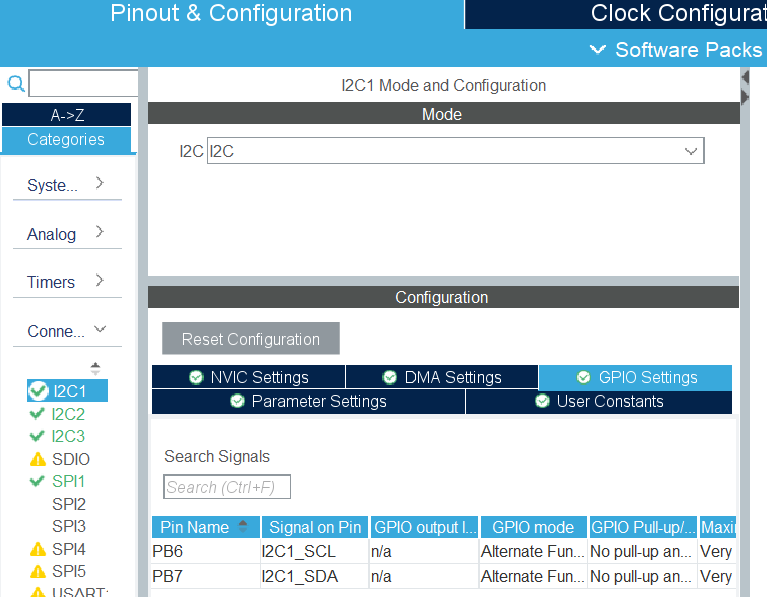
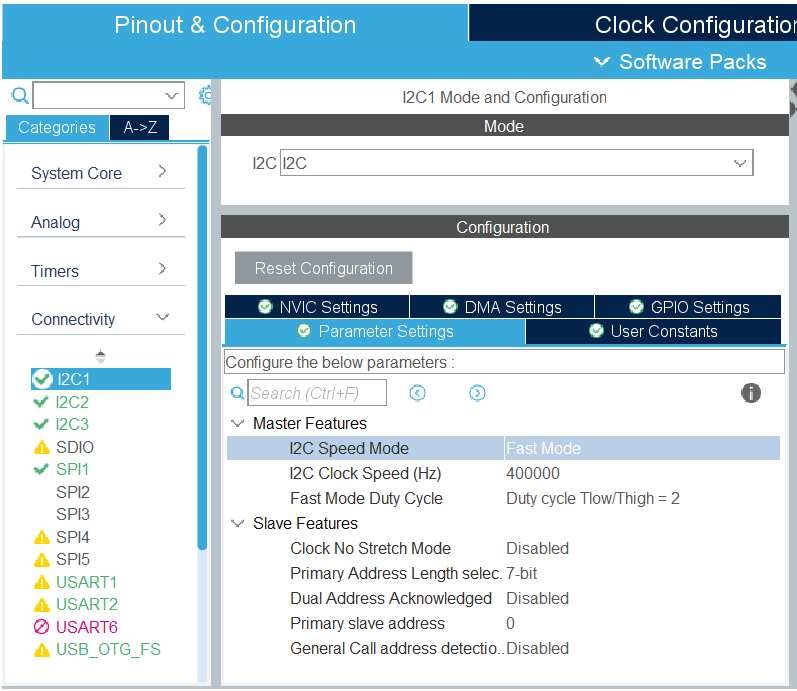
examples/omron_height 端子変更

diff --git a/examples/omron_height/Core/Src/main.c b/examples/omron_height/Core/Src/main.c
@@ -51,6 +51,7 @@ RTC_HandleTypeDef hrtc;
 
 SPI_HandleTypeDef hspi1;
 
+UART_HandleTypeDef huart1;
 UART_HandleTypeDef huart2;
 
 /* USER CODE BEGIN PV */
@@ -66,6 +67,7 @@ static void MX_SPI1_Init(void);
 static void MX_I2C1_Init(void);
 static void MX_I2C2_Init(void);
 static void MX_I2C3_Init(void);
+static void MX_USART1_UART_Init(void);
 /* USER CODE BEGIN PFP */
 void main_cpp(UART_HandleTypeDef *, I2C_HandleTypeDef *, I2C_HandleTypeDef *, I2C_HandleTypeDef *, char *);
 /* USER CODE END PFP */
@@ -116,6 +118,7 @@ int main(void)
   MX_I2C1_Init();
   MX_I2C2_Init();
   MX_I2C3_Init();
+  MX_USART1_UART_Init();
   /* USER CODE BEGIN 2 */
 	uint32_t bytesread;
 	char buffer[256];
@@ -159,7 +162,7 @@ int main(void)
 	    HAL_RTC_GetTime(&hrtc, &sTime, RTC_FORMAT_BIN);
 	    HAL_RTC_GetDate(&hrtc, &sDate, RTC_FORMAT_BIN);
 	    sprintf(fname,"%02d%02d%02d%02d.csv",sDate.Month,sDate.Date,sTime.Hours,sTime.Minutes);
-		main_cpp(&huart2, &hi2c1, &hi2c2, &hi2c3, fname);
+		main_cpp(&huart1, &hi2c1, &hi2c2, &hi2c3, fname);
 	}
   /* USER CODE END 2 */
 
@@ -177,8 +180,8 @@ int main(void)
 	  sprintf(date,"Date: %02d.%02d.%02d\t",sDate.Date,sDate.Month,sDate.Year+2000);
 	  sprintf(time,"Time: %02d.%02d.%02d\r\n",sTime.Hours,sTime.Minutes,sTime.Seconds);
 
-	  HAL_UART_Transmit(&huart2, (uint8_t *)date, strlen(date), 300);
-	  HAL_UART_Transmit(&huart2, (uint8_t *)time, strlen(time), 300);
+	  HAL_UART_Transmit(&huart1, (uint8_t *)date, strlen(date), 300);
+	  HAL_UART_Transmit(&huart1, (uint8_t *)time, strlen(time), 300);
 	  HAL_GPIO_TogglePin(GPIOC, GPIO_PIN_13);
 	  HAL_Delay(1000);
   }
@@ -247,7 +250,7 @@ static void MX_I2C1_Init(void)
 
   /* USER CODE END I2C1_Init 1 */
   hi2c1.Instance = I2C1;
-  hi2c1.Init.ClockSpeed = 100000;
+  hi2c1.Init.ClockSpeed = 400000;
   hi2c1.Init.DutyCycle = I2C_DUTYCYCLE_2;
   hi2c1.Init.OwnAddress1 = 0;
   hi2c1.Init.AddressingMode = I2C_ADDRESSINGMODE_7BIT;
@@ -281,7 +284,7 @@ static void MX_I2C2_Init(void)
 
   /* USER CODE END I2C2_Init 1 */
   hi2c2.Instance = I2C2;
-  hi2c2.Init.ClockSpeed = 100000;
+  hi2c2.Init.ClockSpeed = 400000;
   hi2c2.Init.DutyCycle = I2C_DUTYCYCLE_2;
   hi2c2.Init.OwnAddress1 = 0;
   hi2c2.Init.AddressingMode = I2C_ADDRESSINGMODE_7BIT;
@@ -315,7 +318,7 @@ static void MX_I2C3_Init(void)
 
   /* USER CODE END I2C3_Init 1 */
   hi2c3.Instance = I2C3;
-  hi2c3.Init.ClockSpeed = 100000;
+  hi2c3.Init.ClockSpeed = 400000;
   hi2c3.Init.DutyCycle = I2C_DUTYCYCLE_2;
   hi2c3.Init.OwnAddress1 = 0;
   hi2c3.Init.AddressingMode = I2C_ADDRESSINGMODE_7BIT;
@@ -403,6 +406,39 @@ static void MX_SPI1_Init(void)
   /* USER CODE BEGIN SPI1_Init 2 */
 
   /* USER CODE END SPI1_Init 2 */
+
+}
+
+/**
+  * @brief USART1 Initialization Function
+  * @param None
+  * @retval None
+  */
+static void MX_USART1_UART_Init(void)
+{
+
+  /* USER CODE BEGIN USART1_Init 0 */
+
+  /* USER CODE END USART1_Init 0 */
+
+  /* USER CODE BEGIN USART1_Init 1 */
+
+  /* USER CODE END USART1_Init 1 */
+  huart1.Instance = USART1;
+  huart1.Init.BaudRate = 115200;
+  huart1.Init.WordLength = UART_WORDLENGTH_8B;
+  huart1.Init.StopBits = UART_STOPBITS_1;
+  huart1.Init.Parity = UART_PARITY_NONE;
+  huart1.Init.Mode = UART_MODE_TX_RX;
+  huart1.Init.HwFlowCtl = UART_HWCONTROL_NONE;
+  huart1.Init.OverSampling = UART_OVERSAMPLING_16;
+  if (HAL_UART_Init(&huart1) != HAL_OK)
+  {
+    Error_Handler();
+  }
+  /* USER CODE BEGIN USART1_Init 2 */
+
+  /* USER CODE END USART1_Init 2 */
 
 }
 

diff --git a/examples/omron_height/README.md b/examples/omron_height/README.md
@@ -27,11 +27,15 @@ USBメモリを作るprojectに加えて以下の設定をします
 
 #### I2Cを使う設定
 I2C1, I2C2, I2C3を有効にする  
+Speed Mode は Fast Mode にする  
 ![](image/I2C.png)
 
 #### UARTを使う設定
-UART2を有効にする  
+UART1,2を有効にする  
 ![](image/UART.png)
+
+#### 端子の設定
+![](image/PIN.png)
 
 ## ソースコード準備
 - STM32CubeIDEで生成したファイルの一部を、USBメモリを作るprojectのファイルで上書きする
